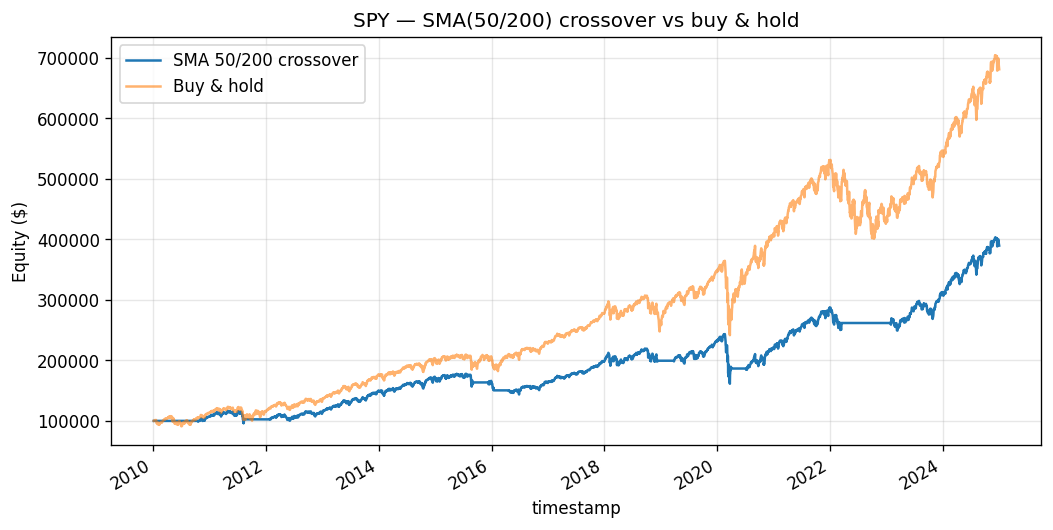
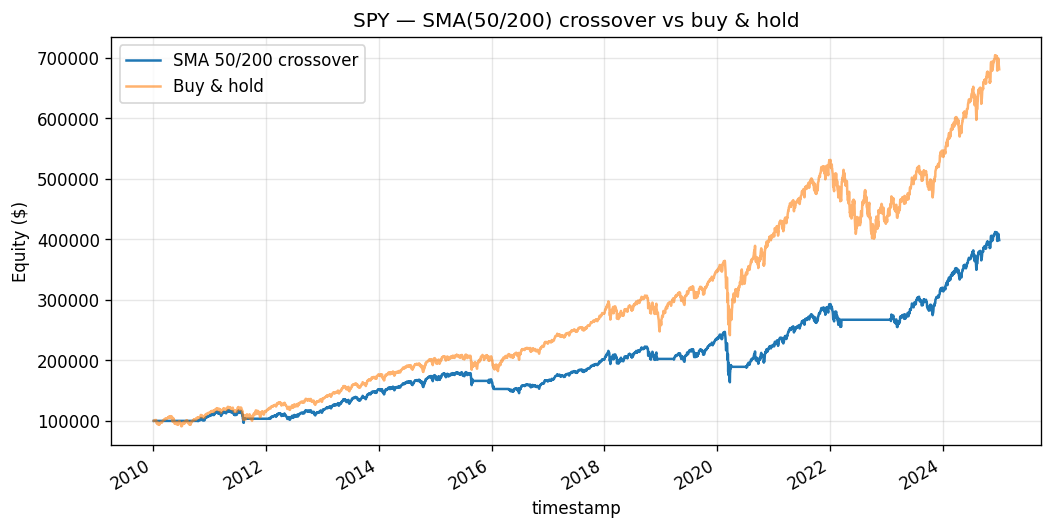
chore(models): re-run under next-open fills + DSR; refresh metrics, README, MODELS.md

diff --git a/README.md b/README.md
@@ -30,10 +30,10 @@ uv run streamlit run app/streamlit_app.py
 
 | Model | Family | Window | Assets | OOS Sharpe | Max DD | Status |
 | --- | --- | --- | --- | --- | --- | --- |
-| [SMA Crossover on SPY](https://vankyle00.github.io/trading-models/docs/models/01-sma-crossover-spy.html) | classical | swing | equities | 0.73 | -0.34 | working |
-| [XGBoost Next-Day Return on SPY](https://vankyle00.github.io/trading-models/docs/models/02-xgboost-next-day-return-spy.html) | ml | swing | equities | 0.84 | -0.14 | working |
+| [SMA Crossover on SPY](https://vankyle00.github.io/trading-models/docs/models/01-sma-crossover-spy.html) | classical | swing | equities | 0.75 | -0.34 | working |
+| [XGBoost Next-Day Return on SPY](https://vankyle00.github.io/trading-models/docs/models/02-xgboost-next-day-return-spy.html) | ml | swing | equities | 0.96 | -0.12 | working |
 | [Google Trends Contrarian on BTC](https://vankyle00.github.io/trading-models/docs/models/04-google-trends-contrarian-btc.html) | alt-data | swing | crypto | -0.30 | -0.80 | negative-result |
-| [Order Flow Imbalance on BTC](https://vankyle00.github.io/trading-models/docs/models/03-order-flow-imbalance-btc.html) | microstructure | intraday | crypto | -86.5 | -0.36 | negative-result |
+| [Order Flow Imbalance on BTC](https://vankyle00.github.io/trading-models/docs/models/03-order-flow-imbalance-btc.html) | microstructure | intraday | crypto | -86.37 | -0.36 | negative-result |
 | [Delta-Hedged Long Option on SPY](https://vankyle00.github.io/trading-models/docs/models/05-delta-hedged-long-option-spy.html) | options | swing | equities | -6.94 | -0.08 | working |
 
 Rows 3 and 4 are intentional negative results: hypotheses were tested
@@ -45,7 +45,7 @@ options model) also posts a negative Sharpe by design — it is the
 options-pipeline demonstrator (hence status `working`), and its loss is
 expected long-volatility theta bleed from pricing above realized vol, not a bug.
 
-Note on the microstructure Sharpe: the -86.5 number is annualized
+Note on the microstructure Sharpe: the -86.37 number is annualized
 assuming 525,600 minute-bars per year. The *direction* (clearly
 losing) and the scale-invariant metrics (hit rate 29.7%, drawdown
 -36%) are what matter for cross-model comparison; see the model's

diff --git a/MODELS.md b/MODELS.md
@@ -5,7 +5,7 @@
 | Name | Family | Window | Assets | Data sources | Sharpe (OOS) | Max DD | Status |
 | --- | --- | --- | --- | --- | --- | --- | --- |
 | [Google Trends Contrarian on BTC](models/alt-data/01-google-trends-btc/) | alt-data | swing | crypto | google_trends_bitcoin, yfinance_daily_bars | -0.30 | -0.80 | negative-result |
-| [SMA Crossover on SPY](models/classical/01-sma-crossover-spy/) | classical | swing | equities | yfinance_daily_bars | 0.73 | -0.34 | working |
-| [Order Flow Imbalance on BTC](models/microstructure/01-order-flow-btc/) | microstructure | intraday | crypto | binance_aggTrades | -86.50 | -0.36 | negative-result |
-| [XGBoost Next-Day Return on SPY](models/ml/01-gbm-next-day-return-spy/) | ml | swing | equities | yfinance_daily_bars | 0.84 | -0.14 | working |
+| [SMA Crossover on SPY](models/classical/01-sma-crossover-spy/) | classical | swing | equities | yfinance_daily_bars | 0.75 | -0.34 | working |
+| [Order Flow Imbalance on BTC](models/microstructure/01-order-flow-btc/) | microstructure | intraday | crypto | binance_aggTrades | -86.37 | -0.36 | negative-result |
+| [XGBoost Next-Day Return on SPY](models/ml/01-gbm-next-day-return-spy/) | ml | swing | equities | yfinance_daily_bars | 0.96 | -0.12 | working |
 | [Delta-Hedged Long Option on SPY](models/options/01-delta-hedged-long-option-spy/) | options | swing | equities | yfinance_daily_bars | -6.94 | -0.08 | working |

diff --git a/models/ml/01-gbm-next-day-return-spy/model.md b/models/ml/01-gbm-next-day-return-spy/model.md
@@ -6,8 +6,8 @@ assets: [equities]
 data_sources: [yfinance_daily_bars]
 tickers: [SPY]
 status: working
-sharpe_oos: 0.84
-max_drawdown: -0.14
+sharpe_oos: 0.96
+max_drawdown: -0.12
 ---
 
 Gradient-boosted regressor predicting next-day SPY log return from a small

diff --git a/models/microstructure/01-order-flow-btc/model.md b/models/microstructure/01-order-flow-btc/model.md
@@ -6,7 +6,7 @@ assets: [crypto]
 data_sources: [binance_aggTrades]
 tickers: [BTCUSDT]
 status: negative-result
-sharpe_oos: -86.5
+sharpe_oos: -86.37
 max_drawdown: -0.36
 ---
 

diff --git a/models/classical/01-sma-crossover-spy/model.md b/models/classical/01-sma-crossover-spy/model.md
@@ -7,7 +7,7 @@ data_sources: [yfinance_daily_bars]
 tickers: any
 default_ticker: SPY
 status: working
-sharpe_oos: 0.73
+sharpe_oos: 0.75
 max_drawdown: -0.34
 ---
 
